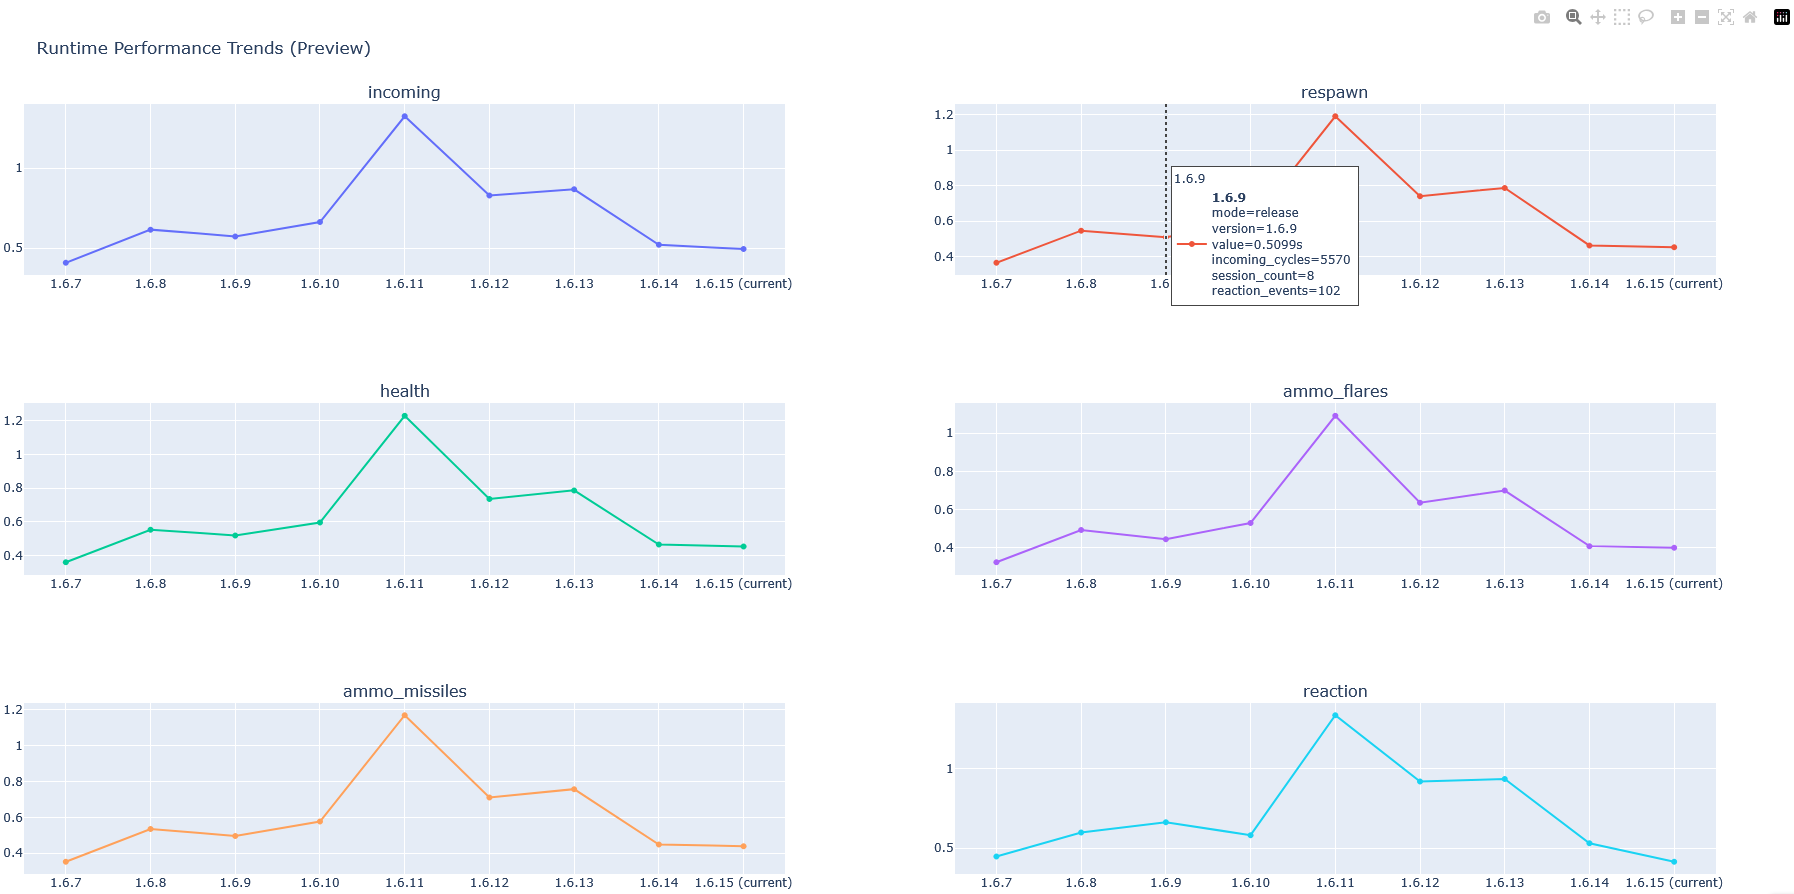
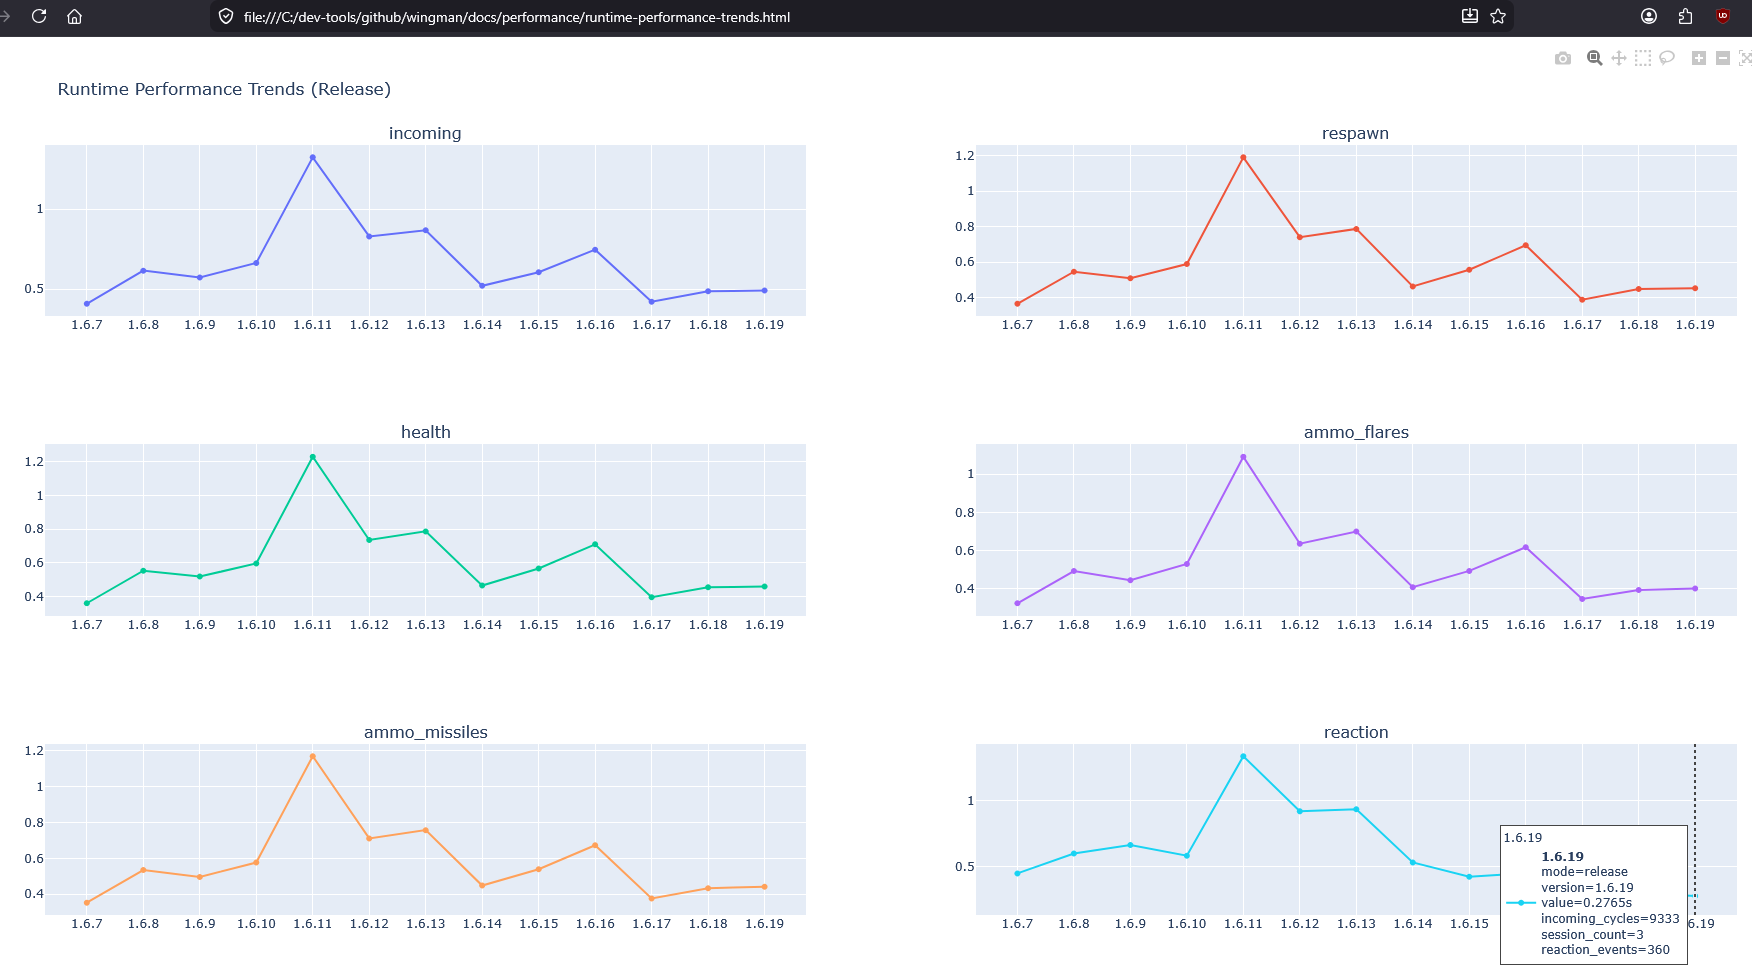
update readme

diff --git a/README.md b/README.md
@@ -2,7 +2,7 @@
 
 AI wingman automation for MetalStorm (PC), built to run unattended mission loops, support live manual takeover, and evolve toward squad-level AI tactics.
 
-Current version: v1.6.14
+Current version: v1.6.19
 
 ![GAME_BATTLE with crop overlays](test_screenshots/GAME_AI.png)
 ![GAME_BATTLE with crop overlays](test_screenshots/GAME_AI2.png)
@@ -41,12 +41,23 @@ Manual takeover is always available with maneuver keys (`i`, `j`, `k`, `l`), mov
 | Health/ammo OCR-driven mission behavior | ✅ |
 | Respawn detection with restart controls | ✅ |
 | Lobby popup handling and click-through end-state handling | ✅ |
+| Game lobby stall guard (v1.6.19) | ✅ |
 | Offline crop calibration tooling | ✅ |
 | Performance tracking and preview/release chart workflows | ✅ |
 | Replay integration harness with assertion engine (ADR 037) | ✅ |
 | Runtime replay gate (ADR 044, PATH1) | ✅ |
 | Live-screen capture gate (ADR 045, PATH1) | ✅ |
 | Real screenshot OCR integration tests (PATH1/PATH2) | ✅ |
+
+---
+
+## Runtime Performance
+
+The chart below tracks loop execution time per release from v1.6.7 through v1.6.19.
+
+Versions v1.6.17–v1.6.19 contain no behavioral changes — they are dedicated performance-tracking releases used to capture a stable baseline before Phase 3 (behavior-tree tactical decisions). v1.6.19 adds an improved game lobby stall guard on top of that baseline.
+
+![Runtime performance trend v1.6.7–v1.6.19](docs/performance/run_time_performance_tracking.png)
 
 ---
 
